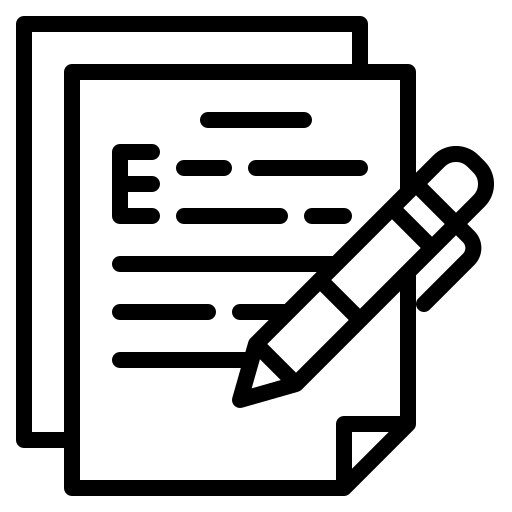
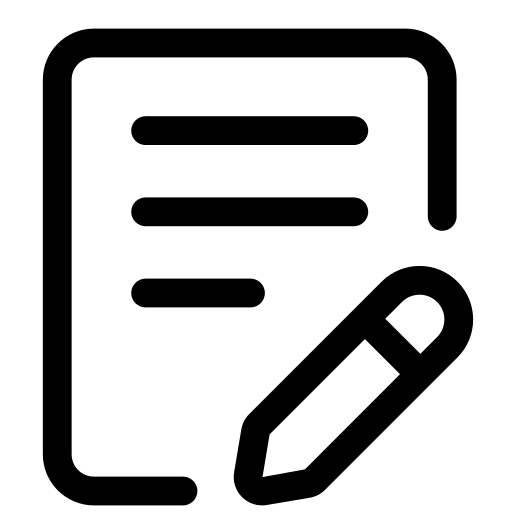
c1

diff --git a/index_old.html b/index_old.html
@@ -222,7 +222,7 @@
 <div id="post-list">
   <div class="post-preview">
       <h1>
-        <a href="/posts/onrl3/">On Offline RL - Part 3</a>
+        <a href="/posts/onrl3/">Single Page</a>
       </h1>
       <div class="post-content">
         <p>
@@ -233,13 +233,71 @@
     
         <div style="display: flex;align-items: center;gap:6px;">
           <!-- posted date -->
-           <img src="assets/img/rd5.png" width="20px" height="20px"> <span>Paper</span>
+           <img src="assets/img/post.png" width="20px" height="20px"> <span style="display: inline-block;width:50px" >Essay</span>
+          <i class="far fa-calendar fa-fw"></i>
+          <span>Oct 16, 2025</span>
+        </div>
+      </div> <!-- .post-meta -->
+    </div> <!-- .post-review -->
+  <div class="post-preview">
+      <h1>
+        <a href="/posts/onrl3/">Single Page</a>
+      </h1>
+      <div class="post-content">
+        <p>
+          Recent advancement that could make offline RL more feasible
+        </p>
+      </div>
+      <div class="post-meta text-muted d-flex justify-content-between">
+    
+        <div style="display: flex;align-items: center;gap:6px;">
+          <!-- posted date -->
+           <img src="assets/img/post.png" width="20px" height="20px"> <span style="display: inline-block;width:50px" >Essay</span>
           <i class="far fa-calendar fa-fw"></i>
           <span>Oct 16, 2025</span>
         </div>
       </div> <!-- .post-meta -->
     </div> <!-- .post-review -->
 
+    <div class="post-preview">
+      <h1>
+        <a href="/posts/onrl3/">Single Page</a>
+      </h1>
+      <div class="post-content">
+        <p>
+          Recent advancement that could make offline RL more feasible
+        </p>
+      </div>
+      <div class="post-meta text-muted d-flex justify-content-between">
+    
+        <div style="display: flex;align-items: center;gap:6px;">
+          <!-- posted date -->
+           <img src="assets/img/paper.png" width="20px" height="20px"> <span style="display: inline-block;width:50px" >Paper</span>
+          <i class="far fa-calendar fa-fw"></i>
+          <span>Oct 16, 2025</span>
+        </div>
+      </div> <!-- .post-meta -->
+    </div> <!-- .post-review -->
+
+    <div class="post-preview">
+      <h1>
+        <a href="/posts/onrl3/">Single Page</a>
+      </h1>
+      <div class="post-content">
+        <p>
+          Recent advancement that could make offline RL more feasible
+        </p>
+      </div>
+      <div class="post-meta text-muted d-flex justify-content-between">
+    
+        <div style="display: flex;align-items: center;gap:6px;">
+          <!-- posted date -->
+           <img src="assets/img/essay.png" width="20px" height="20px"> <span style="display: inline-block;width:50px" >Blog</span>
+          <i class="far fa-calendar fa-fw"></i>
+          <span>Oct 16, 2025</span>
+        </div>
+      </div> <!-- .post-meta -->
+    </div> <!-- .post-review -->
 
     <div class="post-preview">
       <h1>
